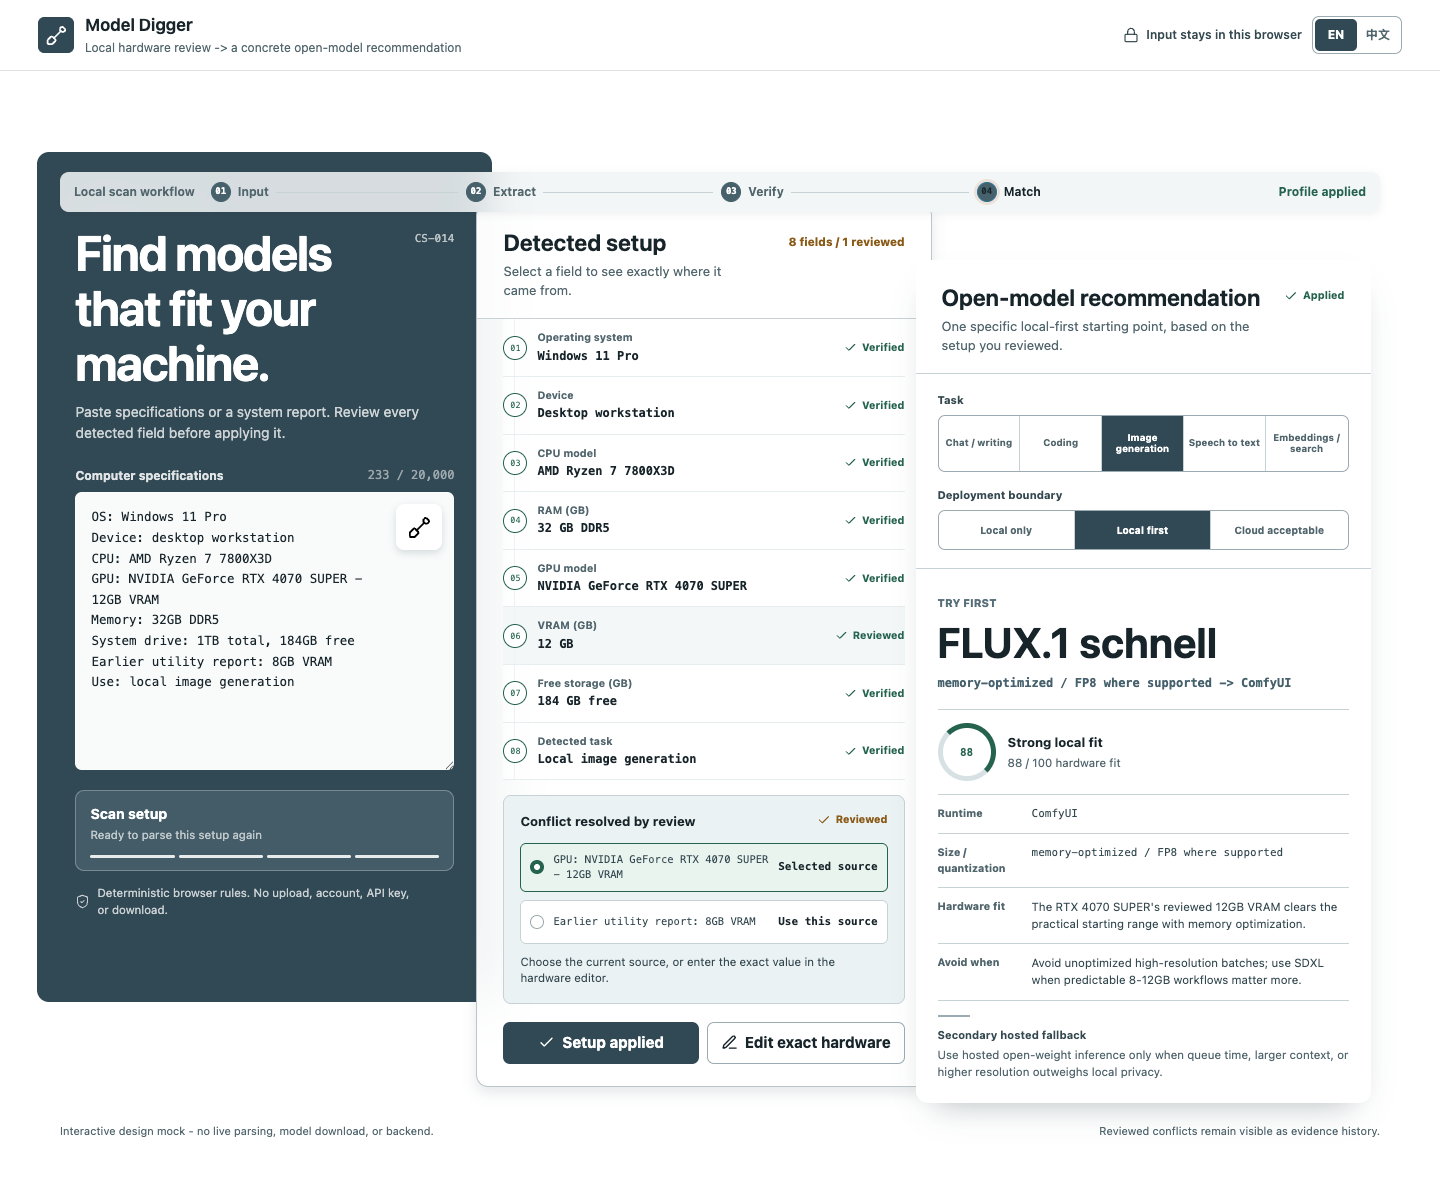
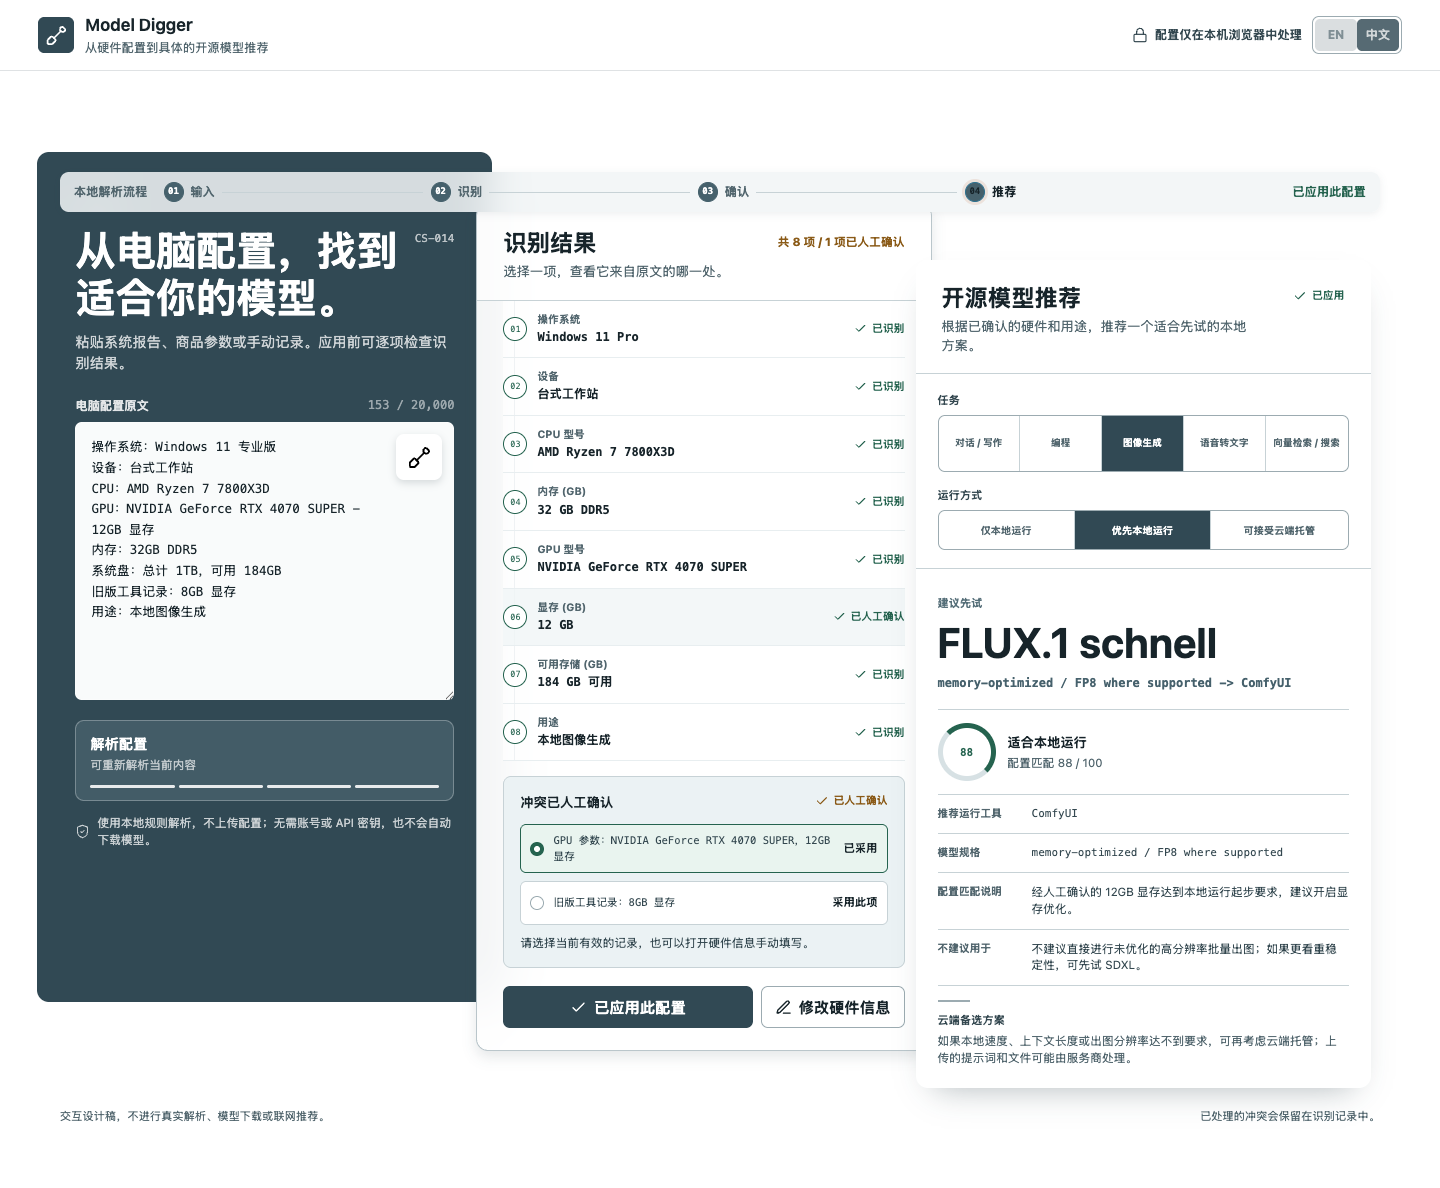
Polish Mandarin headline rhythm

diff --git a/mocks/model-digger-v3/index.html b/mocks/model-digger-v3/index.html
@@ -1628,6 +1628,18 @@
       letter-spacing: -0.025em;
     }
 
+    html[lang="zh-CN"] .zone-heading h1 {
+      max-width: none;
+      font-size: 40px;
+      line-height: 1.18;
+      letter-spacing: 0;
+    }
+
+    .zh-headline-line {
+      display: block;
+      white-space: nowrap;
+    }
+
     .source-stage {
       --sweep-distance: 206px;
       position: relative;
@@ -1960,6 +1972,7 @@
         max-width: none;
         font-size: 32px;
         line-height: 1.2;
+        letter-spacing: 0;
       }
 
       html[lang="zh-CN"] .source-choice b,
@@ -2047,7 +2060,7 @@
       <section class="sample-zone" aria-labelledby="sampleTitle">
         <div class="zone-index" data-i18n="rawSample">PASTED SETUP / LOCAL</div>
         <div class="zone-heading">
-          <h1 id="sampleTitle" data-i18n="sampleTitle">Find models that fit your machine.</h1>
+          <h1 id="sampleTitle">Find models that fit your machine.</h1>
           <span class="sample-number">CS-014</span>
         </div>
         <p class="sample-subtitle" data-i18n="sampleSubtitle">Paste specifications or a system report. Review every detected field before applying it.</p>
@@ -2341,6 +2354,8 @@ GPU：NVIDIA GeForce RTX 4070 SUPER - 12GB 显存
         statusScanning: "正在本地解析",
         rawSample: "原始配置",
         sampleTitle: "从电脑配置，找到适合你的模型。",
+        sampleTitleLine1: "从电脑配置，找到",
+        sampleTitleLine2: "适合你的模型。",
         sampleSubtitle: "粘贴系统报告、商品参数或手动记录。应用前可逐项检查识别结果。",
         pasteLabel: "电脑配置原文",
         scanSetup: "解析配置",
@@ -2749,6 +2764,23 @@ GPU：NVIDIA GeForce RTX 4070 SUPER - 12GB 显存
       updateStages();
     }
 
+    function renderSampleTitle() {
+      const heading = document.getElementById("sampleTitle");
+      heading.setAttribute("aria-label", t("sampleTitle"));
+      if (state.language !== "zh") {
+        heading.textContent = t("sampleTitle");
+        return;
+      }
+
+      const firstLine = document.createElement("span");
+      const secondLine = document.createElement("span");
+      firstLine.className = "zh-headline-line";
+      secondLine.className = "zh-headline-line";
+      firstLine.textContent = t("sampleTitleLine1");
+      secondLine.textContent = t("sampleTitleLine2");
+      heading.replaceChildren(firstLine, secondLine);
+    }
+
     function applyLanguage(language) {
       const previousLanguage = state.language;
       state.language = language === "zh" ? "zh" : "en";
@@ -2763,6 +2795,7 @@ GPU：NVIDIA GeForce RTX 4070 SUPER - 12GB 显存
       document.querySelectorAll("[data-language]").forEach((button) => {
         button.setAttribute("aria-pressed", String(button.dataset.language === state.language));
       });
+      renderSampleTitle();
       if (setupText.value === samples[previousLanguage] || !setupText.value) setupText.value = samples[state.language];
       scanButton.setAttribute("title", t("scanSetup"));
       scanButton.setAttribute("aria-label", t("scanSetup"));
